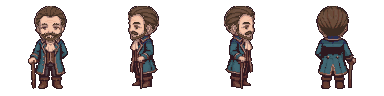
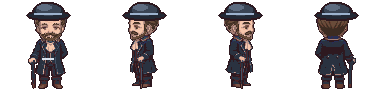
Add star-power royal/enemy leader designs and expand unique pixel-art cast to 46 distinct sheets

diff --git a/js/render/opening_pixel_assets.js b/js/render/opening_pixel_assets.js
@@ -1015,13 +1015,14 @@ const OpeningPixelAssets=(()=>{
   }
   return img
  }
- // ---- HD-2D HERO-PARITY ILLUSTRATED NPC SPRITE SHEETS (assets/npc/hd/*.png) ----
- // 30 bespoke 4-direction 512x128 illustrated chibi sheets matching Karen/Triton/Sophie/Margaret!
+ // ---- HD-2D HERO-PARITY CRISP PIXEL-ART NPC SPRITE SHEETS (assets/npc/hd/*.png) ----
+ // 46 bespoke 4-direction 384x96 crisp pixel-art sheets (star-power royal/enemy cast + zero-clone regional cast!)
  const HD_NPC_MAP=Object.freeze({
   baker:'baker',capitalBakerWife:'baker',strollerBaker:'baker',
   mayor:'mayor',bellKeeper:'mayor',
   farmer:'farmer',empireFarmer:'farmer',
-  fieldWorker:'fieldWorker',oldAngler:'fieldWorker',brookKeeper:'fieldWorker',waystationDriver:'fieldWorker',
+  fieldWorker:'fieldWorker',oldAngler:'fieldWorker',brookKeeper:'fieldWorker',
+  karenFather:'karenFather',waystationDriver:'karenFather',
   oldwoman:'oldwoman',chapelElder:'oldwoman',
   ren:'ren',capitalStreetKid:'ren',
   mika:'mika',soldierSister:'mika',
@@ -1031,29 +1032,42 @@ const OpeningPixelAssets=(()=>{
   messenger:'messenger',capitalCrier:'messenger',
   veteran:'veteran',capitalOldGuard:'veteran',oldImperialSoldier:'veteran',royalSergeant:'veteran',
   father:'father',
-  caretaker:'caretaker',frontierMedic:'caretaker',royalMedicCaptain:'caretaker',waystationMonk:'caretaker',
+  caretaker:'caretaker',frontierMedic:'caretaker',royalMedicCaptain:'caretaker',finalEmpireScout:'caretaker',
   karenMother:'karenMother',mother:'karenMother',soldierMother:'karenMother',rationMother:'karenMother',strollerVillager:'karenMother',refugee:'karenMother',
-  elsiaResident:'elsiaResident',finalEmpireScout:'elsiaResident',
+  elsiaResident:'elsiaResident',
+  elsiaElder:'elsiaElder',
   orphan:'boyVillage',theo:'boyVillage',karenBrother:'boyVillage',waystationChild:'boyVillage',relayChild:'boyVillage',
-  margaretMother:'ladyNoble',strollerFestive:'ladyNoble',capitalShopper:'ladyNoble',
+  margaretMother:'ladyNoble',strollerFestive:'ladyNoble',
+  capitalShopper:'capitalShopper',
   capitalFlowerGirl:'flowerGirl',
   merchant:'merchant',northPeddler:'merchant',waystationPeddler:'merchant',lostMerchant:'merchant',
-  capitalVendor:'merchant',roadTraveler:'merchant',strollerMerchant:'merchant',canalVendor:'merchant',imperialQuartermaster:'merchant',
+  roadTraveler:'merchant',strollerMerchant:'merchant',
+  capitalVendor:'capitalVendor',canalVendor:'capitalVendor',imperialQuartermaster:'capitalVendor',
   kingdomGuard:'kingdomGuard',capitalRecruit:'kingdomGuard',waystationGuard:'kingdomGuard',
-  strollerPatrol:'kingdomGuard',finalKingdomSoldier:'kingdomGuard',frontierOfficer:'kingdomGuard',
-  fortCommander:'kingdomGuard',offDutySoldier:'kingdomGuard',tiredGuard:'kingdomGuard',
-  imperialGuard:'imperialGuard',strollerImperialPatrol:'imperialGuard',vanguardCaptain:'imperialGuard',
+  strollerPatrol:'kingdomGuard',finalKingdomSoldier:'kingdomGuard',offDutySoldier:'kingdomGuard',tiredGuard:'kingdomGuard',
+  fortCommander:'fortCommander',frontierOfficer:'fortCommander',
+  imperialGuard:'imperialGuard',strollerImperialPatrol:'imperialGuard',
   imperialVeteranGuard:'imperialGuard',woundedImperial:'imperialGuard',imperialPatrolEnemy:'imperialGuard',
+  vanguardCaptain:'vanguardCaptain',
   granz:'granz',granzFinal:'granz',
-  zester:'zester',zenith:'zester',
+  zester:'zester',
+  zenith:'zenith',
   klein:'klein',
   shion:'shion',
-  chapelPriest:'priest',fieldPriest:'priest',elsiaElder:'priest',bookSeller:'priest',
-  capitalScholar:'priest',studentReader:'priest',recordKeeper:'priest',strollerScholar:'priest',decisionGuide:'priest',clerk:'priest',
-  capitalSmith:'smith',karenFather:'smith',armoryApprentice:'smith',canalBoatman:'smith',banditEnemy:'smith',
-  scout:'scout',frontierScout:'scout',borderScout:'scout',returnScout:'scout',waystationBard:'scout',strollerBard:'scout',
-  imperialCitizen:'imperialCitizen',capitalCitizen:'imperialCitizen',capitalOfficial:'imperialCitizen',strollerSomber:'imperialCitizen',
-  capitalInnHost:'innHost',waystationHost:'innHost',relayHost:'innHost',empireInnkeeper:'innHost',imperialInnHost:'innHost'
+  chapelPriest:'chapelPriest',
+  fieldPriest:'priest',waystationMonk:'priest',
+  capitalScholar:'capitalScholar',clerk:'capitalScholar',bookSeller:'capitalScholar',strollerScholar:'capitalScholar',decisionGuide:'capitalScholar',
+  studentReader:'studentReader',recordKeeper:'studentReader',
+  capitalSmith:'smith',armoryApprentice:'smith',
+  canalBoatman:'canalBoatman',
+  imperialInnHost:'capitalVendor',
+  banditEnemy:'banditEnemy',
+  scout:'scout',frontierScout:'scout',borderScout:'scout',returnScout:'scout',
+  waystationBard:'waystationBard',strollerBard:'waystationBard',
+  capitalOfficial:'capitalOfficial',
+  capitalCitizen:'capitalCitizen',
+  imperialCitizen:'imperialCitizen',strollerSomber:'imperialCitizen',
+  capitalInnHost:'innHost',waystationHost:'innHost',relayHost:'innHost',empireInnkeeper:'innHost'
  });
  const hdSheetCache=new Map();
  function resolveHdSrc(key){
@@ -1074,31 +1088,64 @@ const OpeningPixelAssets=(()=>{
   return rec.ready?rec.img:null;
  }
  if(typeof Image!=='undefined'){
-  for(const k of ['baker','mayor','farmer','fieldWorker','oldwoman','ren','mika','lulu','messenger','veteran','father','caretaker','karenMother','boyVillage','ladyNoble','merchant','smith','kingdomGuard','imperialGuard','granz','klein','priest','flowerGirl','innHost','scout','imperialCitizen','elsiaResident','shion','zester','emi','noa']){
+  for(const k of [
+   'baker','banditEnemy','boyVillage','canalBoatman','capitalCitizen','capitalOfficial','capitalScholar',
+   'capitalShopper','capitalVendor','caretaker','chapelPriest','elsiaElder','elsiaResident','emi','farmer',
+   'father','fieldWorker','flowerGirl','fortCommander','granz','imperialCitizen','imperialGuard','innHost',
+   'karenFather','karenMother','kingdomGuard','klein','ladyNoble','lulu','mayor','merchant','messenger',
+   'mika','noa','oldwoman','priest','ren','scout','shion','smith','studentReader','vanguardCaptain',
+   'veteran','waystationBard','zenith','zester'
+  ]){
    getHdSheet(k);
   }
  }
  const SPEAKER_HD_MAP=[
-  ['エダ','baker'],['パン屋','baker'],
-  ['村長','mayor'],
-  ['農夫','farmer'],['畑','fieldWorker'],['釣り','fieldWorker'],['川守','fieldWorker'],
-  ['老婆','oldwoman'],['おばあ','oldwoman'],['長老','priest'],
-  ['レン','ren'],['ミカ','mika'],['ルル','lulu'],['エミ','emi'],['ノア','noa'],['テオ','boyVillage'],
-  ['孤児','boyVillage'],['弟','boyVillage'],['子ども','boyVillage'],['少年','boyVillage'],['少女','lulu'],
-  ['伝令','messenger'],['触れ役','messenger'],
-  ['古参兵','veteran'],['剣の師','veteran'],['老兵','veteran'],['軍曹','veteran'],
-  ['カレンの母','karenMother'],['母','karenMother'],['世話役','caretaker'],['衛生','caretaker'],['看護','caretaker'],
-  ['カレンの父','smith'],['鍛冶','smith'],['船頭','smith'],
-  ['マーガレットの母','ladyNoble'],['花売り','flowerGirl'],
-  ['グランツ','granz'],['ゼスター','zester'],['ゼニス','zester'],
-  ['クライン','klein'],['シオン','shion'],
-  ['帝国兵','imperialGuard'],['帝国騎士','imperialGuard'],['前衛隊長','imperialGuard'],
-  ['王国兵','kingdomGuard'],['兵士','kingdomGuard'],['衛兵','kingdomGuard'],['隊長','kingdomGuard'],['司令','kingdomGuard'],['新兵','kingdomGuard'],
-  ['神父','priest'],['司祭','priest'],['学者','priest'],['書記','priest'],['本屋','priest'],['案内','priest'],
-  ['宿','innHost'],['女将','innHost'],
+  ['皇帝シオン','shion'],['シオン','shion'],
+  ['グランツ','granz'],
+  ['クライン','klein'],
+  ['ゼニス','zenith'],
+  ['ゼスター','zester'],
+  ['ヴァルク','vanguardCaptain'],['前衛隊長','vanguardCaptain'],
+  ['監視砦長','fortCommander'],['前線将校','fortCommander'],
+  ['王都係官','capitalOfficial'],['係官','capitalOfficial'],
+  ['ユリア','chapelPriest'],['白石礼拝堂','chapelPriest'],
+  ['セリア','elsiaElder'],['語り部','elsiaElder'],['聖域の老人','elsiaElder'],
+  ['エルシア','elsiaResident'],['聖域の','elsiaResident'],
+  ['フェリクス','capitalScholar'],['地図学者','capitalScholar'],['学者','capitalScholar'],['書記','capitalScholar'],['古書','capitalScholar'],['決断','capitalScholar'],
+  ['学生','studentReader'],['記録係','studentReader'],
+  ['アンナ','capitalShopper'],['買い物客','capitalShopper'],
+  ['マーガレットの母','ladyNoble'],
+  ['花売り','flowerGirl'],
+  ['ルカ','waystationBard'],['吟遊','waystationBard'],
+  ['マロ','capitalVendor'],['市場商人','capitalVendor'],['運河商人','capitalVendor'],['補給官','capitalVendor'],
+  ['水鳥亭','capitalVendor'],['船頭','canalBoatman'],
+  ['ならず者','banditEnemy'],
+  ['エダ','baker'],['パン屋','baker'],['パン売り','baker'],['保存食','baker'],
+  ['村長','mayor'],['鐘楼守','mayor'],
+  ['カレンの父','karenFather'],['御者','karenFather'],
+  ['農夫','farmer'],['果樹農家','farmer'],
+  ['畑','fieldWorker'],['釣り','fieldWorker'],['川辺','fieldWorker'],['川守','fieldWorker'],
+  ['老婆','oldwoman'],['老婦人','oldwoman'],['おばあ','oldwoman'],
+  ['レン','ren'],['トマ','ren'],
+  ['ミカ','mika'],['ユナ','mika'],
+  ['ルル','lulu'],
+  ['エミ','emi'],['薬草摘み','emi'],
+  ['ノア','noa'],['帝国の子ども','noa'],
+  ['テオ','boyVillage'],['リオ','boyVillage'],['孤児','boyVillage'],['弟','boyVillage'],['子ども','boyVillage'],['少年','boyVillage'],['ピート','boyVillage'],
+  ['使者','messenger'],['伝令','messenger'],['瓦版','messenger'],
+  ['ガルド','veteran'],['帰還兵','veteran'],['古参','veteran'],['老兵','veteran'],['曹長','veteran'],['退役','veteran'],
+  ['トリトンの父','father'],
+  ['マルタ','caretaker'],['世話役','caretaker'],['衛生','caretaker'],['救護','caretaker'],['エルナ','caretaker'],
+  ['カレンの母','karenMother'],['母','karenMother'],['仕立て','karenMother'],['避難民','karenMother'],
+  ['鍛冶','smith'],
+  ['帝国兵','imperialGuard'],['近衛兵','imperialGuard'],['帝国騎士','imperialGuard'],
+  ['王国兵','kingdomGuard'],['兵士','kingdomGuard'],['衛兵','kingdomGuard'],['新兵','kingdomGuard'],['番人','kingdomGuard'],
+  ['司祭','priest'],['従軍僧','priest'],['修道士','priest'],['神父','priest'],
+  ['女将','innHost'],['宿主','innHost'],['白鹿亭','innHost'],['白樺亭','innHost'],
   ['商人','merchant'],['行商','merchant'],['旅人','merchant'],
-  ['斥候','scout'],['吟遊','scout'],
-  ['エルシア','elsiaResident'],['帝国市民','imperialCitizen'],['市民','imperialCitizen'],['役人','imperialCitizen']
+  ['斥候','scout'],['偵察','scout'],['飛脚','scout'],
+  ['王都市民','capitalCitizen'],
+  ['帝国市民','imperialCitizen'],['市民','imperialCitizen']
  ];
  function hdPortraitMarkup(speaker){
   if(!speaker||['カレン','トリトン','ソフィ','マーガレット','ナレーション','システム'].includes(speaker))return '';
